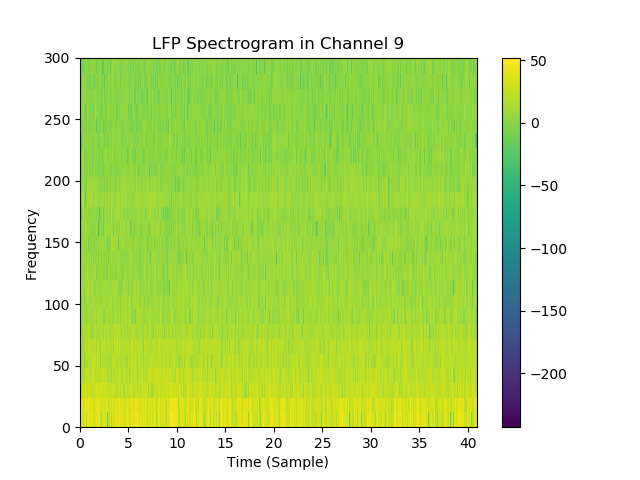
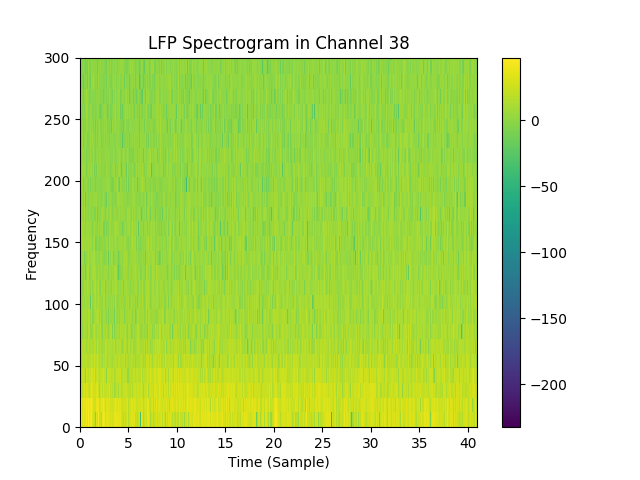
plot all 96 channels spec.

diff --git a/Python_code/Signal_Processing/fourier_transform.py b/Python_code/Signal_Processing/fourier_transform.py
@@ -125,7 +125,7 @@ for selected_channel in range(96):
     c.set_ylabel('Frequency')
     fig.colorbar(im)
 
-    plt.savefig('../../Figures/nwb_Data_Plot/Spectrogram_all_Channels/Spike/spike_spectrum_on_1_session.png')
+    plt.savefig('../../Figures/nwb_Data_Plot/Spectrogram_all_Channels/Spike/spike_spectrum_on_'+str(selected_channel)+'_channel.png')
 
     plt.clf()
     plt.close()
@@ -176,7 +176,7 @@ for selected_channel in range(96):
     c.set_xlabel('Time (Sample)')
     c.set_ylabel('Frequency')
     fig.colorbar(im)
-    plt.savefig('../../Figures/nwb_Data_Plot/Spectrogram_all_Channels/LFP/LFP_spectrum_on_1_session.png')
+    plt.savefig('../../Figures/nwb_Data_Plot/Spectrogram_all_Channels/LFP/LFP_spectrum_on_'+str(selected_channel)+'_channel.png')
 
     plt.clf()
     plt.close()
